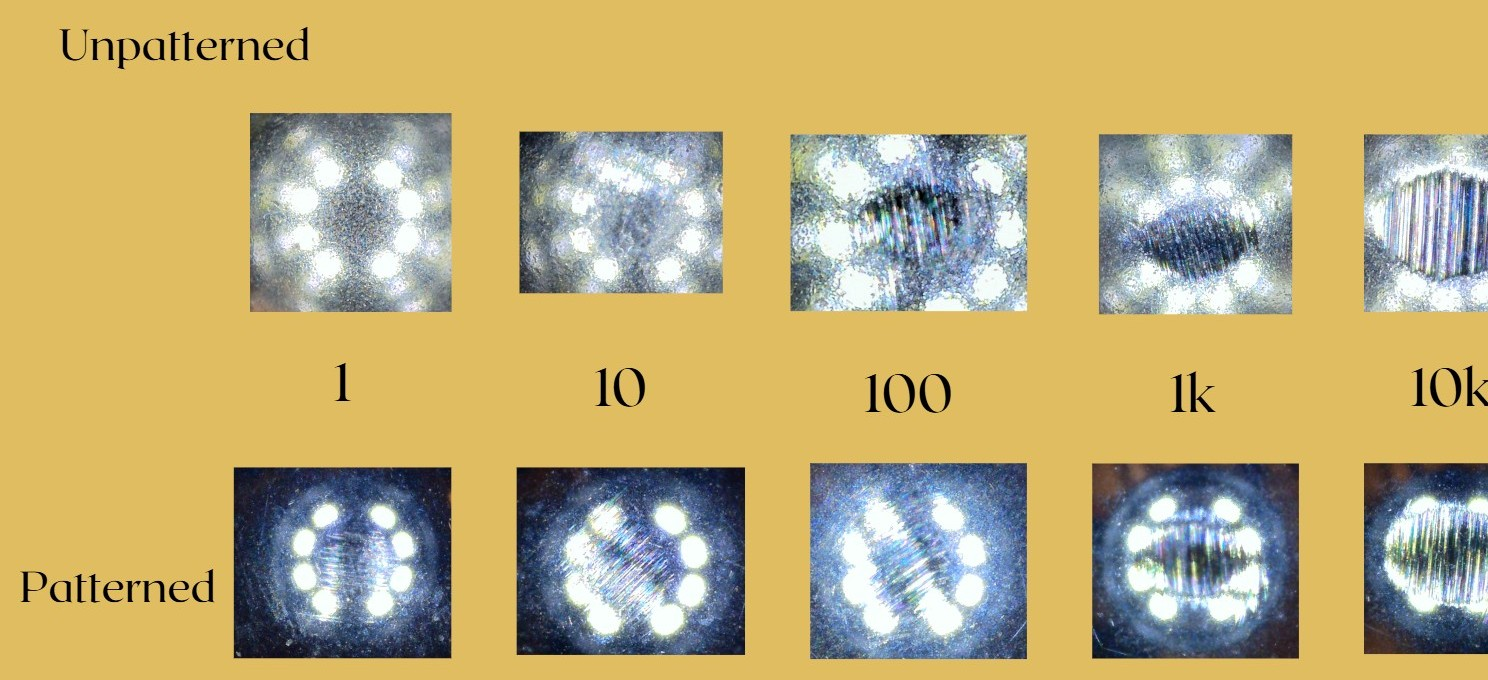
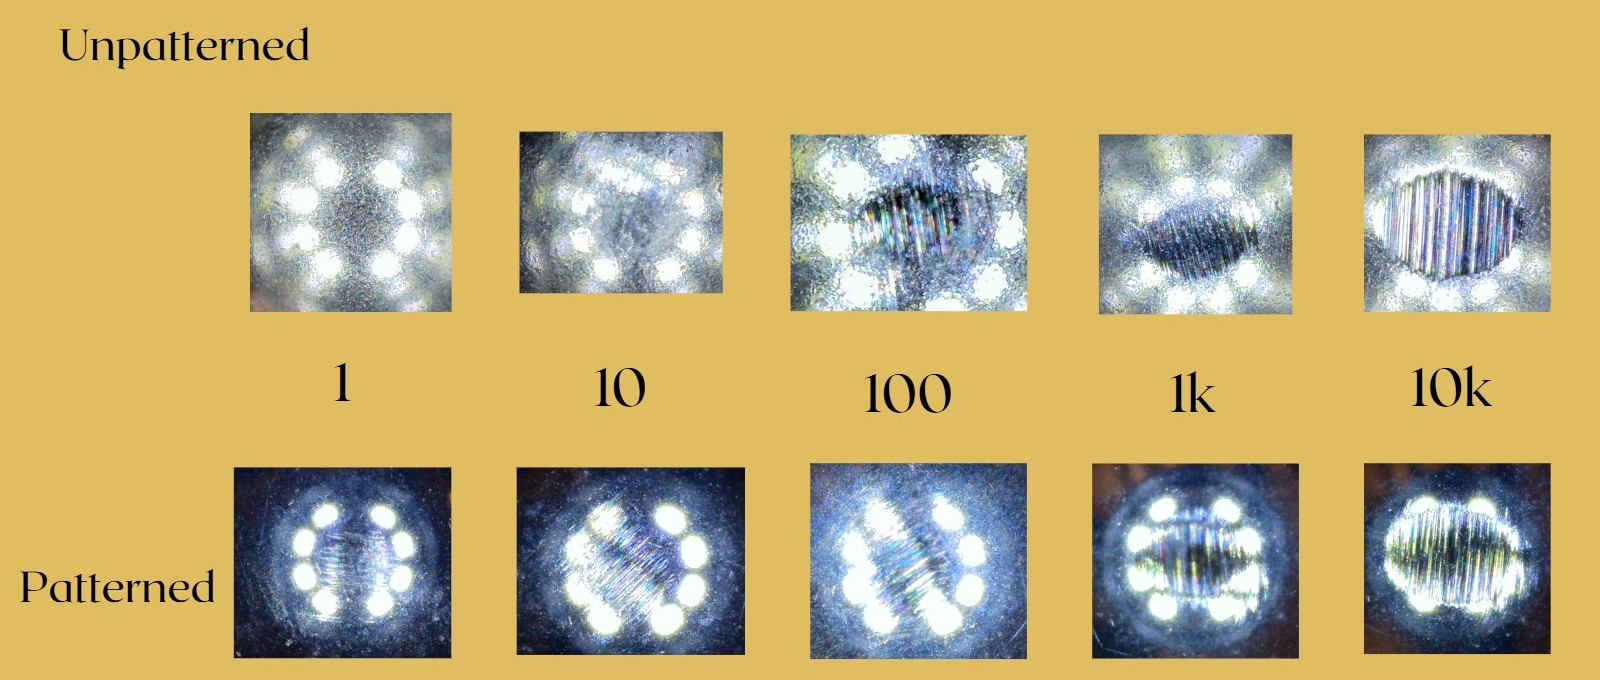
Tribology page: 'A Slice of Material Science for Fun' pizza side quest; full-width wear scar image

diff --git a/index.html b/index.html
@@ -915,6 +915,36 @@
   @media (max-width:760px){ .glance{grid-template-columns:repeat(2,minmax(0,1fr));} }
   @media (max-width:440px){ .glance{grid-template-columns:1fr;} }
 
+  /* A playful aside box on a project page */
+  .side-quest{
+    max-width:960px;
+    margin:clamp(36px,6vw,56px) auto 0;
+    padding:clamp(18px,3vw,28px);
+    background:var(--cream);
+    border:3px dashed var(--amber);
+    border-radius:16px;
+    transform:rotate(-.4deg);
+  }
+  .side-quest-tag{
+    display:inline-block;
+    margin:0 0 .4rem;
+    padding:.2rem .8rem;
+    border-radius:999px;
+    background:var(--amber);
+    color:var(--cream);
+    font-size:.72rem;
+    font-weight:700;
+    letter-spacing:.12em;
+    text-transform:uppercase;
+  }
+  .side-quest-title{
+    margin:0 0 1rem;
+    font-family:var(--font-heading);
+    font-weight:800;
+    font-size:clamp(1.5rem,3vw,2rem);
+    color:var(--blue);
+  }
+
   /* Collapsed "Dig deeper" section holding the full documents */
   .deep-dive{
     max-width:960px;
@@ -2908,6 +2938,23 @@
         </div>
       </div>
     </div>
+
+    <section class="side-quest">
+      <p class="side-quest-tag">Side quest</p>
+      <h2 class="side-quest-title">A Slice of Material Science for Fun</h2>
+      <div class="split">
+        <figure class="split-media"><img src="images/pizza-slide-test.jpg" alt="Leilani tilting a wooden pizza peel and a metal tray with a disk of dough on each, measuring the slide angle with a phone protractor" loading="lazy"><figcaption>Measuring the angle where the dough starts to slide.</figcaption></figure>
+        <div class="split-text">
+          <p>Every pizza maker faces the same dilemma: too little flour and the dough sticks to the peel, too much and it burns in the oven. So we brought tribology to the kitchen.</p>
+          <p>We dusted identical rounds of dough with measured amounts of fine and coarse semolina, set them on wooden and metal peels, and tilted until they slid, using the slide angle to calculate the friction.</p>
+          <p>The sweet spot: about <strong>0.4–0.5% semolina by weight</strong>. Past that, the dough slides just as easily, and the extra flour only burns.</p>
+        </div>
+      </div>
+      <figure class="doc-figure doc-figure-top">
+        <img src="images/pizza-results.jpg" alt="Two pizzas on wooden boards: one with a golden crust baked with the optimal amount of semolina, and a pepperoni pizza with a burned crust from too much semolina" loading="lazy">
+        <figcaption>Just right (left) vs. too much semolina (right).</figcaption>
+      </figure>
+    </section>
 
     <details class="deep-dive" open>
       <summary>Dig Deeper: Talks and Posters</summary>
